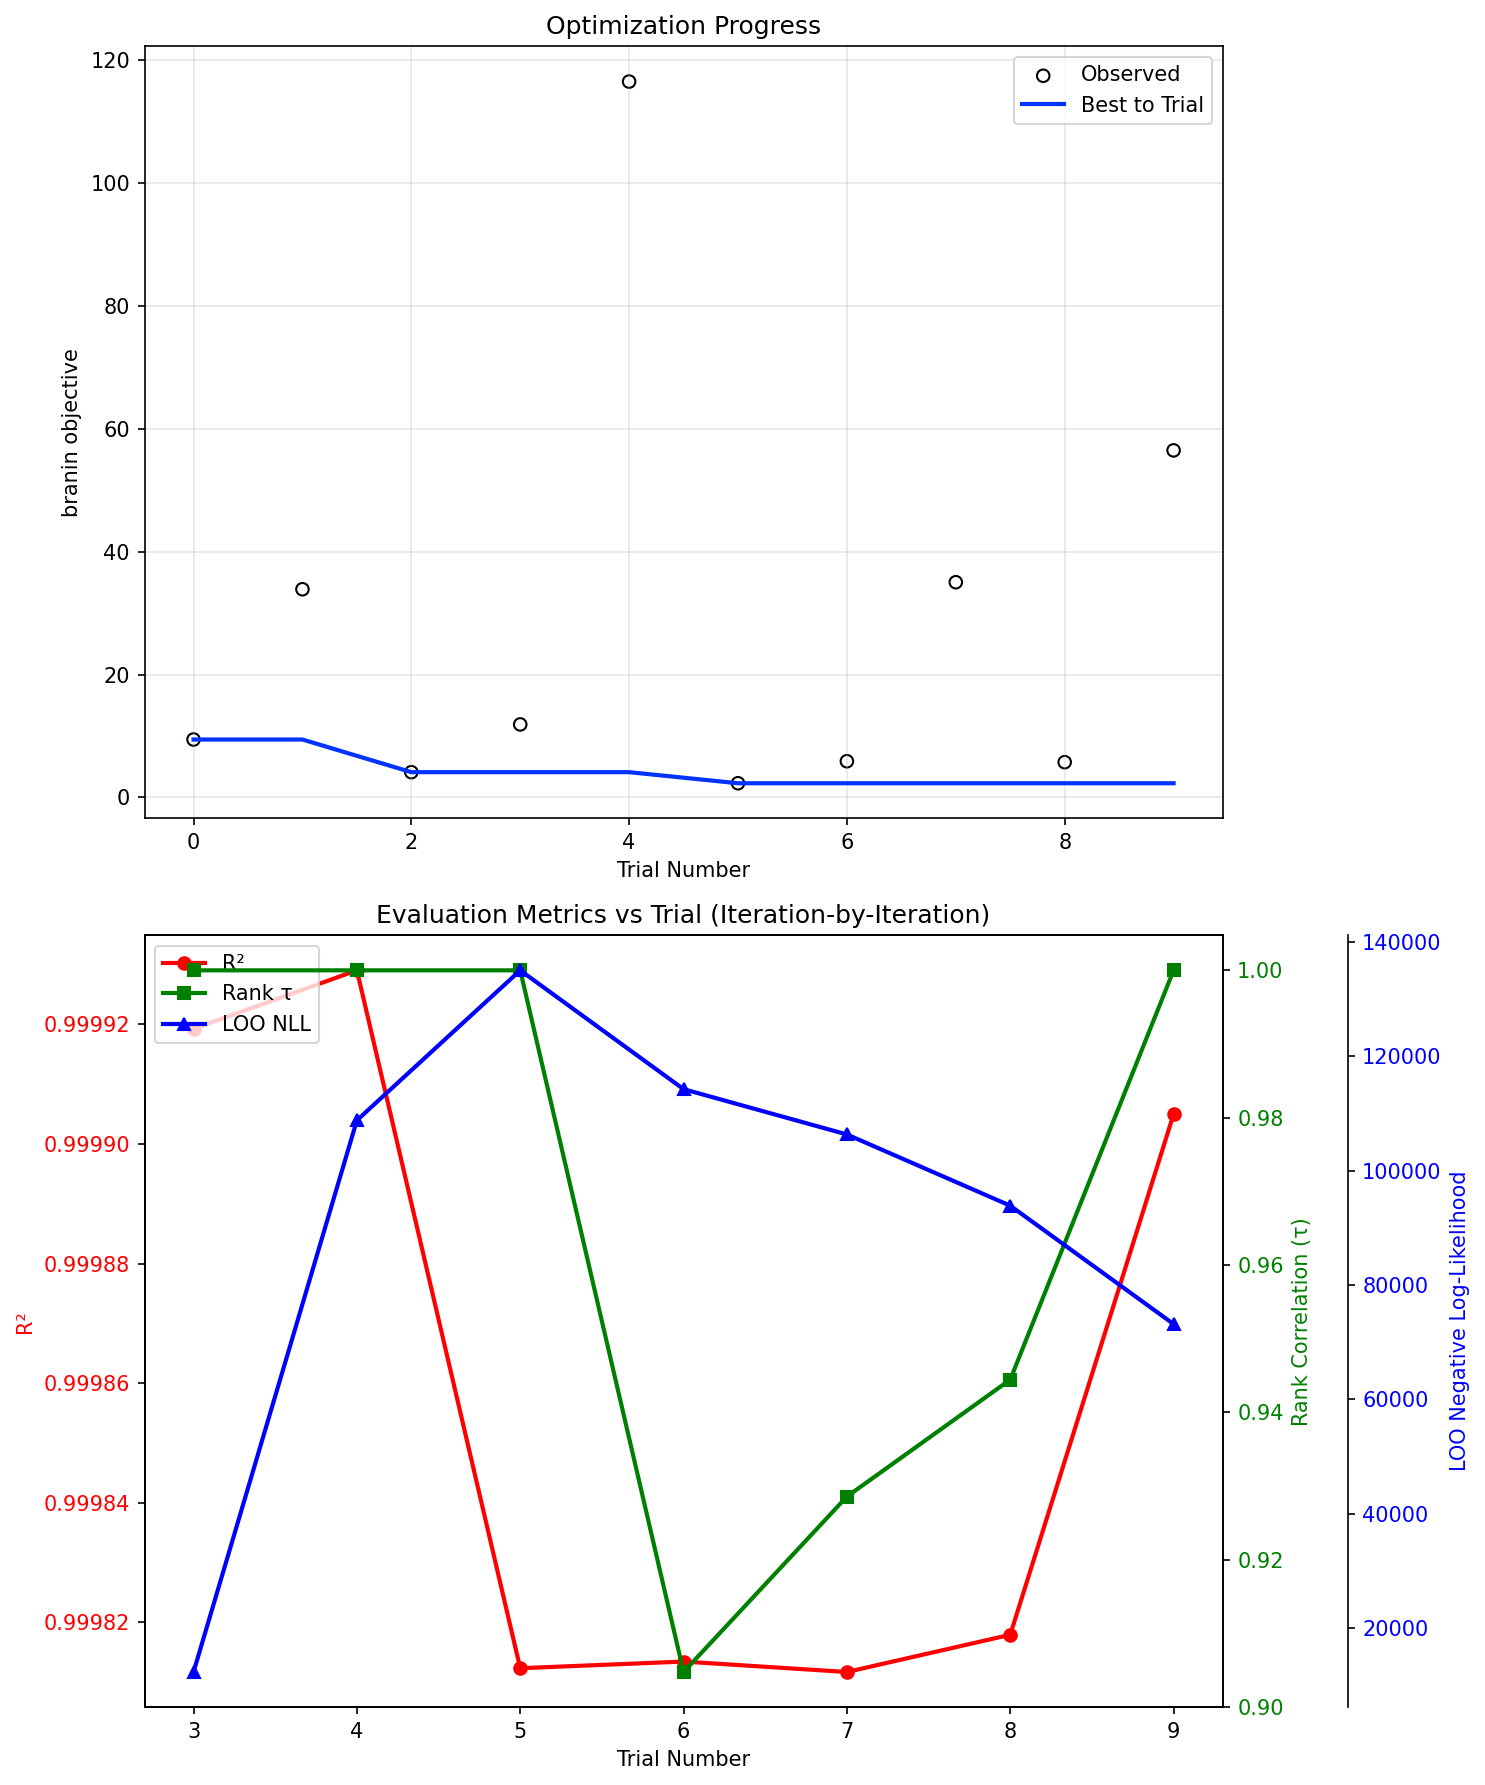
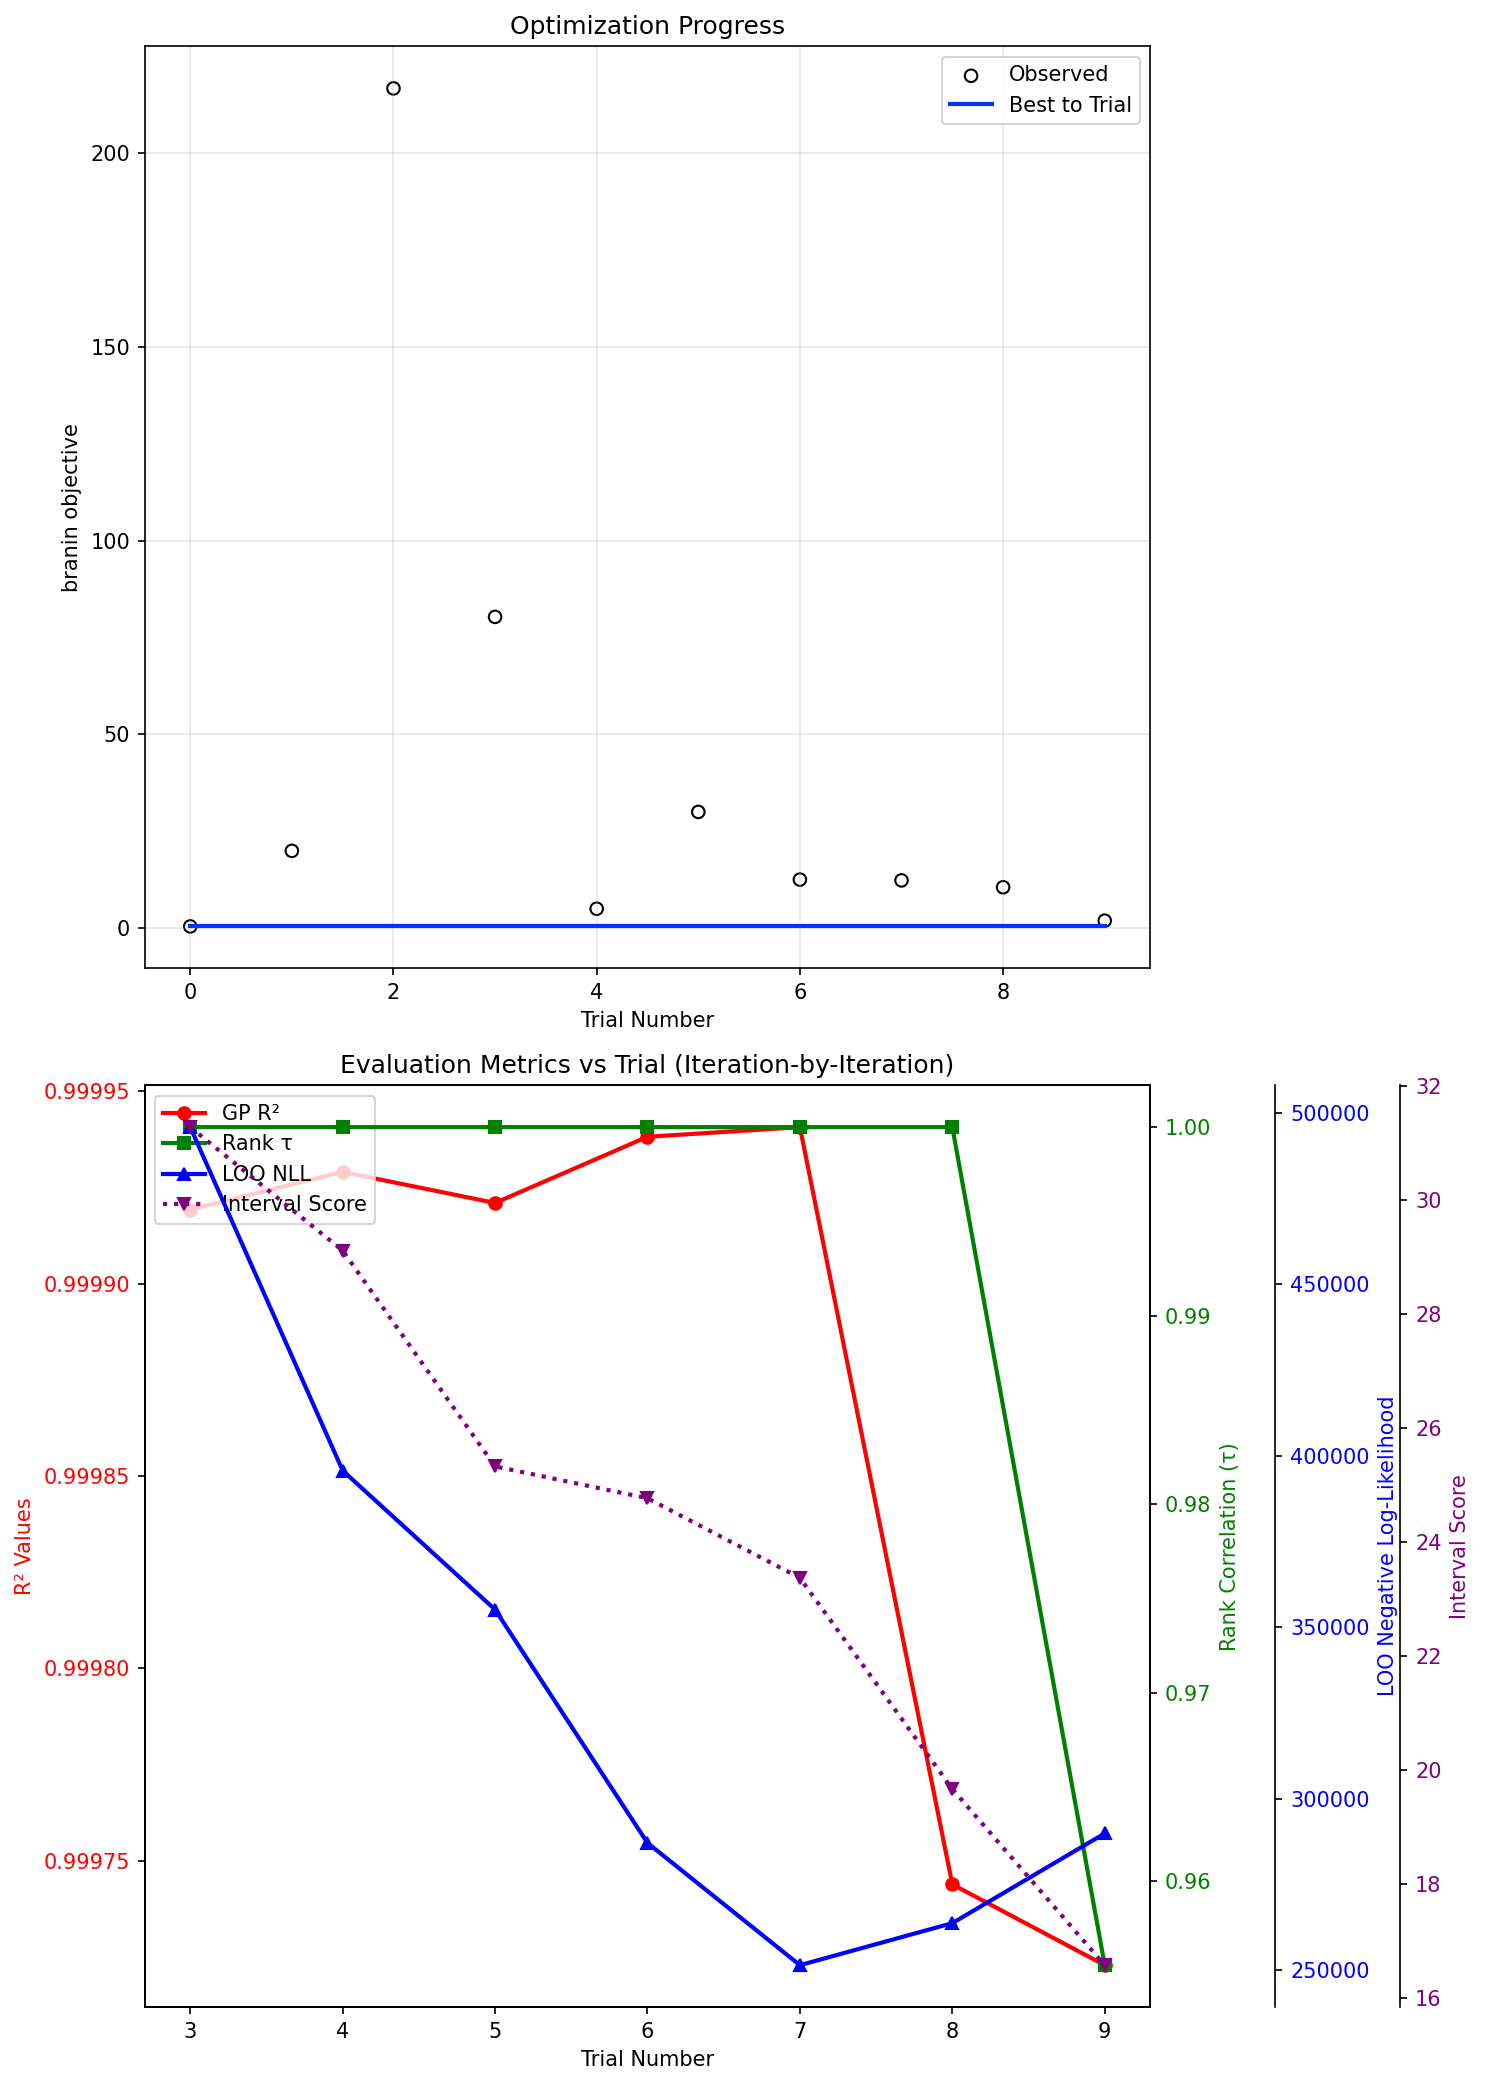
Implement Ax cross validation and interval score calculation for iteration-by-iteration evaluation metrics

diff --git a/scripts/bo_benchmarks/demonstrations/branin_campaign_demonstration.py b/scripts/bo_benchmarks/demonstrations/branin_campaign_demonstration.py
@@ -27,8 +27,37 @@ def branin(x1, x2):
     return y
 
 
+def interval_score(y_true, lower, upper, alpha=0.05):
+    """
+    Calculate interval score for uncertainty quantification evaluation.
+    
+    For 95% confidence intervals (alpha=0.05), the formula is:
+    f_interval = (upper - lower) + (2/alpha) * max(0, lower - y) + (2/alpha) * max(0, y - upper)
+    
+    Args:
+        y_true: True values
+        lower: Lower confidence bounds
+        upper: Upper confidence bounds 
+        alpha: Confidence level (0.05 for 95% CI)
+    
+    Returns:
+        Array of interval scores (lower is better)
+    """
+    width = upper - lower
+    below_penalty = np.maximum(0, lower - y_true)
+    above_penalty = np.maximum(0, y_true - upper)
+    return width + (2 / alpha) * below_penalty + (2 / alpha) * above_penalty
+
+
+def normal_95ci(mean, std):
+    """Convert mean and standard deviation to 95% confidence intervals."""
+    lower = mean - 1.96 * std
+    upper = mean + 1.96 * std
+    return lower, upper
+
+
 def calculate_iteration_metrics(ax_client, trial_index):
-    """Calculate evaluation metrics after each trial using GP model."""
+    """Calculate evaluation metrics after each trial using both GP model and Ax cross validation."""
     # Skip if not enough trials
     if trial_index < 3:
         return None
@@ -38,8 +67,8 @@ def calculate_iteration_metrics(ax_client, trial_index):
     if len(df) < 3:
         return None
     
-    # Calculate GP model metrics using gpcheck
     try:
+        # ===== GP-based metrics (gpcheck) =====
         # Prepare data for GP model
         train_X = torch.tensor(df[['x1', 'x2']].values, dtype=torch.float32)
         train_Y = torch.tensor(df[obj1_name].values, dtype=torch.float32).unsqueeze(-1)
@@ -49,10 +78,10 @@ def calculate_iteration_metrics(ax_client, trial_index):
         gp_model = GPModel(config)
         gp_model.fit(train_X, train_Y)
         
-        # Calculate metrics
+        # Calculate GP-based metrics
         mean_pred, std_pred = gp_model.predict(train_X)
         
-        r2 = r2_score(train_Y.detach().cpu().numpy(), mean_pred.detach().cpu().numpy())
+        gp_r2 = r2_score(train_Y.detach().cpu().numpy(), mean_pred.detach().cpu().numpy())
         
         ls, imp = gp_model.get_lengthscales()
         imp_dict = importance_concentration(imp)
@@ -61,9 +90,33 @@ def calculate_iteration_metrics(ax_client, trial_index):
         
         rank_tau = kendalltau(train_Y.squeeze().detach().cpu().numpy(), mean_pred.detach().cpu().numpy())[0]
         
+        # Calculate interval score using GP predictions
+        y_true = train_Y.squeeze().detach().cpu().numpy()
+        y_pred_mean = mean_pred.detach().cpu().numpy()
+        y_pred_std = std_pred.detach().cpu().numpy()
+        
+        # Convert to 95% confidence intervals
+        lower, upper = normal_95ci(y_pred_mean, y_pred_std)
+        interval_scores = interval_score(y_true, lower, upper)
+        mean_interval_score = np.mean(interval_scores)
+        
+        # ===== Ax cross validation metrics =====
+        # Note: Ax cross validation implementation would require ax.modelbridge.registry.Models.BOTORCH_MODULAR
+        # For now, using GP-based metrics as primary evaluation approach
+        ax_cv_r2 = None
+        
+        # TODO: Implement proper Ax cross validation when ModelBridge is available
+        # This would require:
+        # from ax.modelbridge.registry import Models 
+        # from ax.modelbridge.cross_validation import cross_validate
+        # modelbridge = Models.BOTORCH_MODULAR(experiment=ax_client.experiment, data=data)
+        # cv_results = cross_validate(modelbridge)
+        
         metrics = {
             'trial': trial_index,
-            'r2': r2,
+            'gp_r2': gp_r2,  # GP-based R²
+            'ax_cv_r2': ax_cv_r2,  # Ax cross validation R²
+            'interval_score': mean_interval_score,  # Mean interval score
             'imp_cumsum': imp_dict,
             'loo_nll': loo,
             'rank_tau': rank_tau,
@@ -74,7 +127,7 @@ def calculate_iteration_metrics(ax_client, trial_index):
         return metrics
         
     except Exception as e:
-        print(f"GP metrics calculation failed: {e}")
+        print(f"Metrics calculation failed: {e}")
         return None
 
 
@@ -112,7 +165,11 @@ for i in range(10):
     iteration_metrics = calculate_iteration_metrics(ax_client, trial_index)
     if iteration_metrics:
         all_metrics.append(iteration_metrics)
-        print(f"  R²: {iteration_metrics['r2']:.4f}, LOO NLL: {iteration_metrics['loo_nll']:.2f}")
+        print(f"  GP R²: {iteration_metrics['gp_r2']:.4f}, LOO NLL: {iteration_metrics['loo_nll']:.2f}")
+        if iteration_metrics['ax_cv_r2'] is not None:
+            print(f"  Ax CV R²: {iteration_metrics['ax_cv_r2']:.4f}")
+        if iteration_metrics['interval_score'] is not None:
+            print(f"  Interval Score: {iteration_metrics['interval_score']:.4f}")
 
 best_parameters, metrics = ax_client.get_best_parameters()
 print(f"\nBest parameters: {best_parameters}")
@@ -128,13 +185,17 @@ print(f"Columns: {df.columns.tolist()}")
 if all_metrics:
     print("\n=== Final Evaluation Metrics ===")
     final_metrics = all_metrics[-1]
-    print(f"R²: {final_metrics['r2']:.4f}")
+    print(f"GP R²: {final_metrics['gp_r2']:.4f}")
+    if final_metrics['ax_cv_r2'] is not None:
+        print(f"Ax Cross Validation R²: {final_metrics['ax_cv_r2']:.4f}")
+    if final_metrics['interval_score'] is not None:
+        print(f"Mean Interval Score: {final_metrics['interval_score']:.4f}")
     print(f"Rank correlation (τ): {final_metrics['rank_tau']:.4f}")
     print(f"Leave-One-Out Negative Log-Likelihood: {final_metrics['loo_nll']:.2f}")
     print(f"Importance concentration: {final_metrics['imp_cumsum']}")
 
 # Create stacked vertical plots as requested
-fig, (ax1, ax2) = plt.subplots(2, 1, figsize=(10, 12), dpi=150)
+fig, (ax1, ax2) = plt.subplots(2, 1, figsize=(10, 14), dpi=150)
 
 # Plot 1: Standard "best so far" trace
 ax1.scatter(df.index, df[objectives], ec="k", fc="none", label="Observed")
@@ -154,21 +215,45 @@ ax1.grid(True, alpha=0.3)
 # Plot 2: Evaluation metrics over trials (iteration-by-iteration results)
 if all_metrics:
     trial_nums = [m['trial'] for m in all_metrics]
-    r2_values = [m['r2'] for m in all_metrics]
+    gp_r2_values = [m['gp_r2'] for m in all_metrics]
     rank_tau_values = [m['rank_tau'] for m in all_metrics] 
     loo_values = [m['loo_nll'] for m in all_metrics]
     
-    # Use secondary y-axes for different scales
+    # Extract Ax CV R² and interval scores (may have None values)
+    ax_cv_r2_values = [m['ax_cv_r2'] for m in all_metrics if m['ax_cv_r2'] is not None]
+    interval_score_values = [m['interval_score'] for m in all_metrics if m['interval_score'] is not None]
+    ax_cv_trial_nums = [m['trial'] for m in all_metrics if m['ax_cv_r2'] is not None]
+    interval_trial_nums = [m['trial'] for m in all_metrics if m['interval_score'] is not None]
+    
+    # Use multiple y-axes for different scales
     ax2_twin1 = ax2.twinx()
     ax2_twin2 = ax2.twinx()
+    ax2_twin3 = ax2.twinx()
     ax2_twin2.spines['right'].set_position(('outward', 60))
+    ax2_twin3.spines['right'].set_position(('outward', 120))
     
-    line1 = ax2.plot(trial_nums, r2_values, 'r-', label='R²', marker='o', linewidth=2)
+    # Plot main metrics
+    line1 = ax2.plot(trial_nums, gp_r2_values, 'r-', label='GP R²', marker='o', linewidth=2)
     line2 = ax2_twin1.plot(trial_nums, rank_tau_values, 'g-', label='Rank τ', marker='s', linewidth=2)
     line3 = ax2_twin2.plot(trial_nums, loo_values, 'b-', label='LOO NLL', marker='^', linewidth=2)
     
+    # Plot Ax CV R² if available
+    lines = line1 + line2 + line3
+    if ax_cv_r2_values:
+        line4 = ax2.plot(ax_cv_trial_nums, ax_cv_r2_values, 'orange', label='Ax CV R²', marker='d', 
+                        linewidth=2, linestyle='--')
+        lines += line4
+    
+    # Plot interval score if available  
+    if interval_score_values:
+        line5 = ax2_twin3.plot(interval_trial_nums, interval_score_values, 'purple', label='Interval Score', 
+                              marker='v', linewidth=2, linestyle=':')
+        lines += line5
+        ax2_twin3.set_ylabel("Interval Score", color='purple')
+        ax2_twin3.tick_params(axis='y', labelcolor='purple')
+    
     ax2.set_xlabel("Trial Number")
-    ax2.set_ylabel("R²", color='r')
+    ax2.set_ylabel("R² Values", color='r')
     ax2_twin1.set_ylabel("Rank Correlation (τ)", color='g')
     ax2_twin2.set_ylabel("LOO Negative Log-Likelihood", color='b')
     
@@ -179,11 +264,14 @@ if all_metrics:
     ax2.set_title("Evaluation Metrics vs Trial (Iteration-by-Iteration)")
     
     # Combined legend
-    lines = line1 + line2 + line3
     labels = [l.get_label() for l in lines]
     ax2.legend(lines, labels, loc='upper left')
     
     print(f"\nLOO Negative Log-Likelihood values: {loo_values}")
+    if ax_cv_r2_values:
+        print(f"Ax Cross Validation R² values: {ax_cv_r2_values}")
+    if interval_score_values:
+        print(f"Interval Score values: {interval_score_values}")
     
 else:
     ax2.text(0.5, 0.5, 'Not enough data\nfor metrics calculation', 
